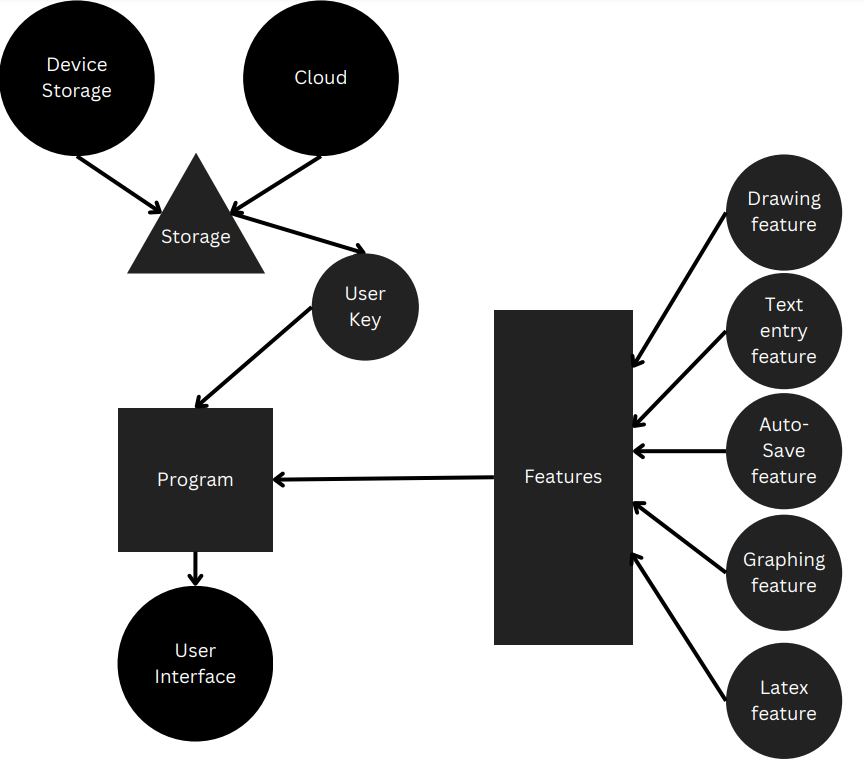
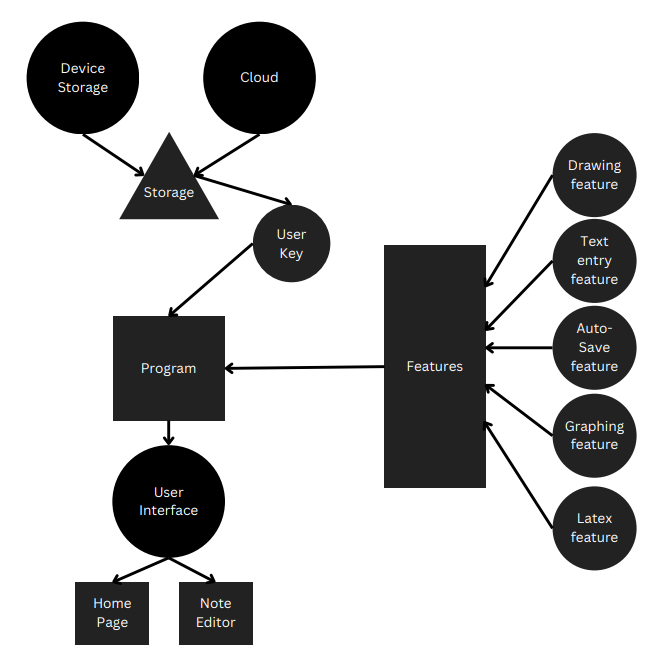
Update architecture and design

diff --git a/design.html b/design.html
@@ -28,6 +28,26 @@
       </ul>
 <h2>User Interface:</h2>     
 <p>The app will have a simple and intuitive user interface that makes it easy for users to navigate and use all of the features. The interface will include a main screen that displays a list of all notes, as well as buttons for creating new notes, accessing the drawing and graphing features, and inserting Latex equations.</p>
+<h2>Classes:</h2>     
+<p>The app will make up two main classes, the Home page and the Note Editor page</p>
+<h3>Home Page Class:</h3>
+<p>The home page of the note-taking app will be the first screen that users see when they launch the app. It will display a list of all notes that the user has created. Each note will show its title and a short preview of its content. Users can click on a note to view and edit its content.
+    <br/>
+    In addition to the list of notes, the home page will also have buttons for creating a new note, accessing the drawing and graphing features, and inserting mathematical equations.
+</p>
+<h3>Note Editor Class:</h3>
+<p>When users select a note from the home page, they will be taken to the note editor page. The note editor page will allow users to create and edit notes using a simple text editor. Users can add titles and tags to their notes to help with organization.
+    <br/>
+    The note editor page will also have a drawing feature that allows users to create sketches and diagrams using their finger or stylus. Users can choose from a variety of colors and brush sizes, as well as an eraser tool to correct mistakes.
+    <br/>
+    Furthermore, the note editor page will provide a Latex feature that allows users to insert mathematical equations into their notes using Latex notation. Users can write equations using a dedicated Latex editor, and the app will automatically convert the notation into a readable format.
+    <br/>
+    Lastly, the note editor page will have a graphing feature that allows users to create and edit graphs. Users can choose from a variety of graph types and customize the appearance of the graph.
+    <br/>
+    The note editor page will also have an auto-save feature that automatically saves notes as they are created or edited, ensuring that users do not lose their work. Users will also be able to manually save notes at any time.
+    <br/>
+    Overall, the note editor page will provide users with a comprehensive set of tools for creating and editing notes, as well as other useful features for organizing and presenting their work.
+</p>
 <h2>Technical Requirements:</h2>
 <p>The app will be developed using Android Studio and will target Android devices running Android 5.0 or higher. The app will use Java as the programming language and will utilize the Android SDK and various libraries to provide the desired functionality.</p>
 <h2>Conclusion:</h2>
